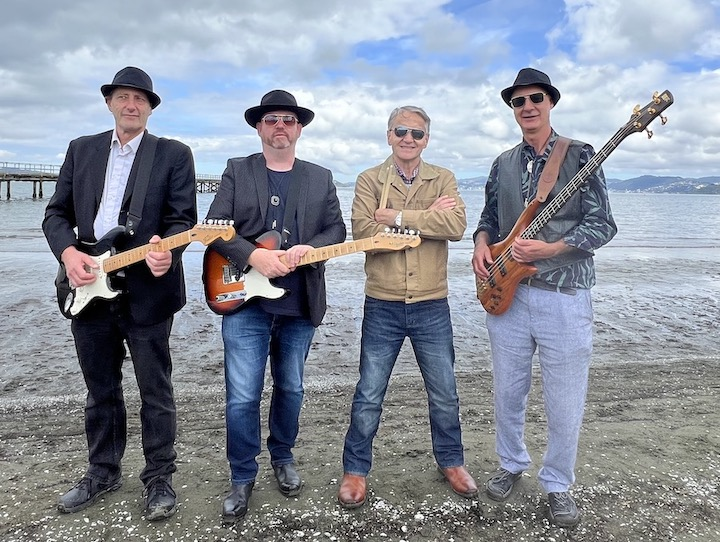
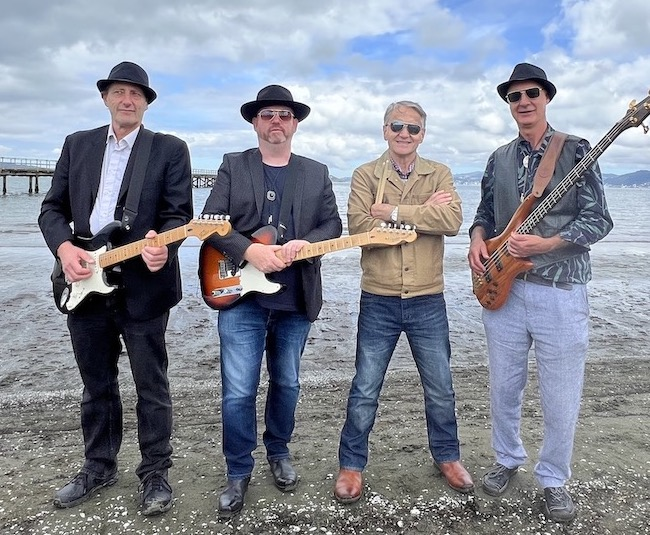
Minor changes
Changes to index (main) page, wallpaper and band photo

diff --git a/main.html b/main.html
@@ -1,4 +1,4 @@
-<!DOCTYPE html>                 /*  V 0.4  6 June 2024 */
+<!DOCTYPE html>                 /*  V 0.5  7 June 2024 */
 <html lang="en">
 <head>
 <meta charset="UTF-8">
@@ -28,8 +28,8 @@
    width: 50%;
    text-align: center;
    margin: 20px auto;
-   width: 720px;
-   height: 542px;
+   width: 650px;
+   height: 535px;
    border: 15px solid #B69074;
    box-shadow: 25px 25px 25px rgba(0, 0, 0, 0.3);
   }
@@ -49,21 +49,39 @@
     text-align: justify; /* Keep the text left-justified */
     color: white;
   }
-  .email {
-    text-align: center;
-    margin: 20px;
-    font-size: 36px;
-  }
   .events {
     text-align: center;
     padding: 30px;
     font-size: 36px;
     color: white;
+    position: relative;
+  }
+  .events::before {
+    content: ""; /* Create an empty pseudo-element */
+    display: block;
+    /* position: absolute; */
+    top: -7px;  /* Position above the title */
+    margin-left: auto;
+    margin-right: auto;
+    width: 20em;
+    height: 7px;
+    background-color: #800020; /* Red color */
   }
   .videos {
     text-align: center;
     padding: 5px;
     font-size: 36px;
+  }
+ .videos::before {
+    content: ""; /* Create an empty pseudo-element */
+    display: block;
+    /* position: absolute; */
+    top: -7px;  /* Position above the title */
+    margin-left: auto;
+    margin-right: auto;
+    width: 20em;
+    height: 7px;
+    background-color: #800020; /* Red color */
   }
   .video-thumbnails {
     margin-left: auto;
@@ -144,9 +162,13 @@
 }
 body{
   height: 200vh;
+  margin: 0;
+  padding: 0;
+  border-top: 25px solid #800020;
 }
 .shareit {
   position: fixed;
+  right: 0;
   top: 150px;
 }
 .shareit a {
@@ -179,40 +201,36 @@ body{
 .tumblr {
   background: #000000;
 }
-
 .pinterest {
   background: #cb2027;
 }
 </style>
 </head>
 <body>
+  
   <link rel="stylesheet" href="https://maxcdn.bootstrapcdn.com/font-awesome/4.5.0/css/font-awesome.min.css">
   <div class="banner">
     <!-- Banner image goes here -->
     <img src="roadhouse_brown_banner.png" alt="Band Banner" width="900" height="200">
   </div>
   <div class="bio_1">
-    <p>Roadhouse are a roots rock band from Wellington. We play a range of rootsy music from the genres of rock, blues, country, folk, R&B, rockabilly and the great American songbook.</p>
+    <p>We are a roots rock band based on Wellington. We play a range of rootsy music from the genres of rock, blues, country, folk, R&B, rockabilly and the great American songbook.</p>
   </div>
    <div class="band-photo">
     <!-- Band photo goes here -->
-    <img src="band_photo_colour.jpg" alt="Band Photo" width="720" height="542">
+    <img src="band_photo_colour.jpg" alt="Band Photo" width="650" height="535">
   </div>
   <div class="bio_2">
-    <p>Many of the songs we cover are from the '50s to the '90s, but our full repertoire spans more than 100 years of music.<br><br>Whether your event or venue calls for popular classics, interesting roots music, or a mix, we can put together a set to fit your needs. It can be also be all-electric, all-acoustic or both.<br><br>We're open to travelling outside the Wellington area.</p>
-    <p style="color: rgb(182, 144, 116;)">
-      <b>Email: 
-          <a href="mailto:roadhouseband2024@gmail.com">roadhouseband2024@gmail.com</a>
-      </b>
+    <p>Most of the songs we cover are from the '50s to the '90s, but our full repertoire spans nearly 100 years of music. We can play both acoustic and electric music.<br><br>Whether your event or venue wants popular classics, interesting roots music, or a mixture, we can put together a set list to fit your preferences.<br><br>Feel free to get in touch if you have any ideas in mind (we're also open to travelling outside of Wellington.<br><br><b>Email:</b> <a href="mailto:roadhouseband2024@gmail.com">roadhouseband2024@gmail.com</a>
     </p>
   </div>
   <div class="events">
-    <p style="color: rgb(182, 144, 116);"><b>News and Events:</b></p>
+    <p style="color: rgb(182, 144, 116);"><b>News and events:</b></p>
   </div>
   <div class="container">
      <div class="icon-text">
        <div class="icon"></div>
-         <div>Upcoming in June - <a target="_blank" rel="noopener noreferrer" href="https://www.facebook.com/MadisonsFirstSt/">Madison's Bar</a>
+         <div>Appearing soon at <a target="_blank" rel="noopener noreferrer" href="https://www.facebook.com/MadisonsFirstSt/">Madison's Cafe, Landsdowne</a>
          </div>
        </div>
      </div>
@@ -263,6 +281,7 @@ body{
     </div>
   </div>
  </div>
+
     <div class="shareit">
       <!-- facebook -->
       <a class="facebook" href="https://www.facebook.com/sharer/sharer.php?u=https://roadhouseband.co.nz" target="blank" title="facebook"><i class="fa fa-facebook"></i></a>
